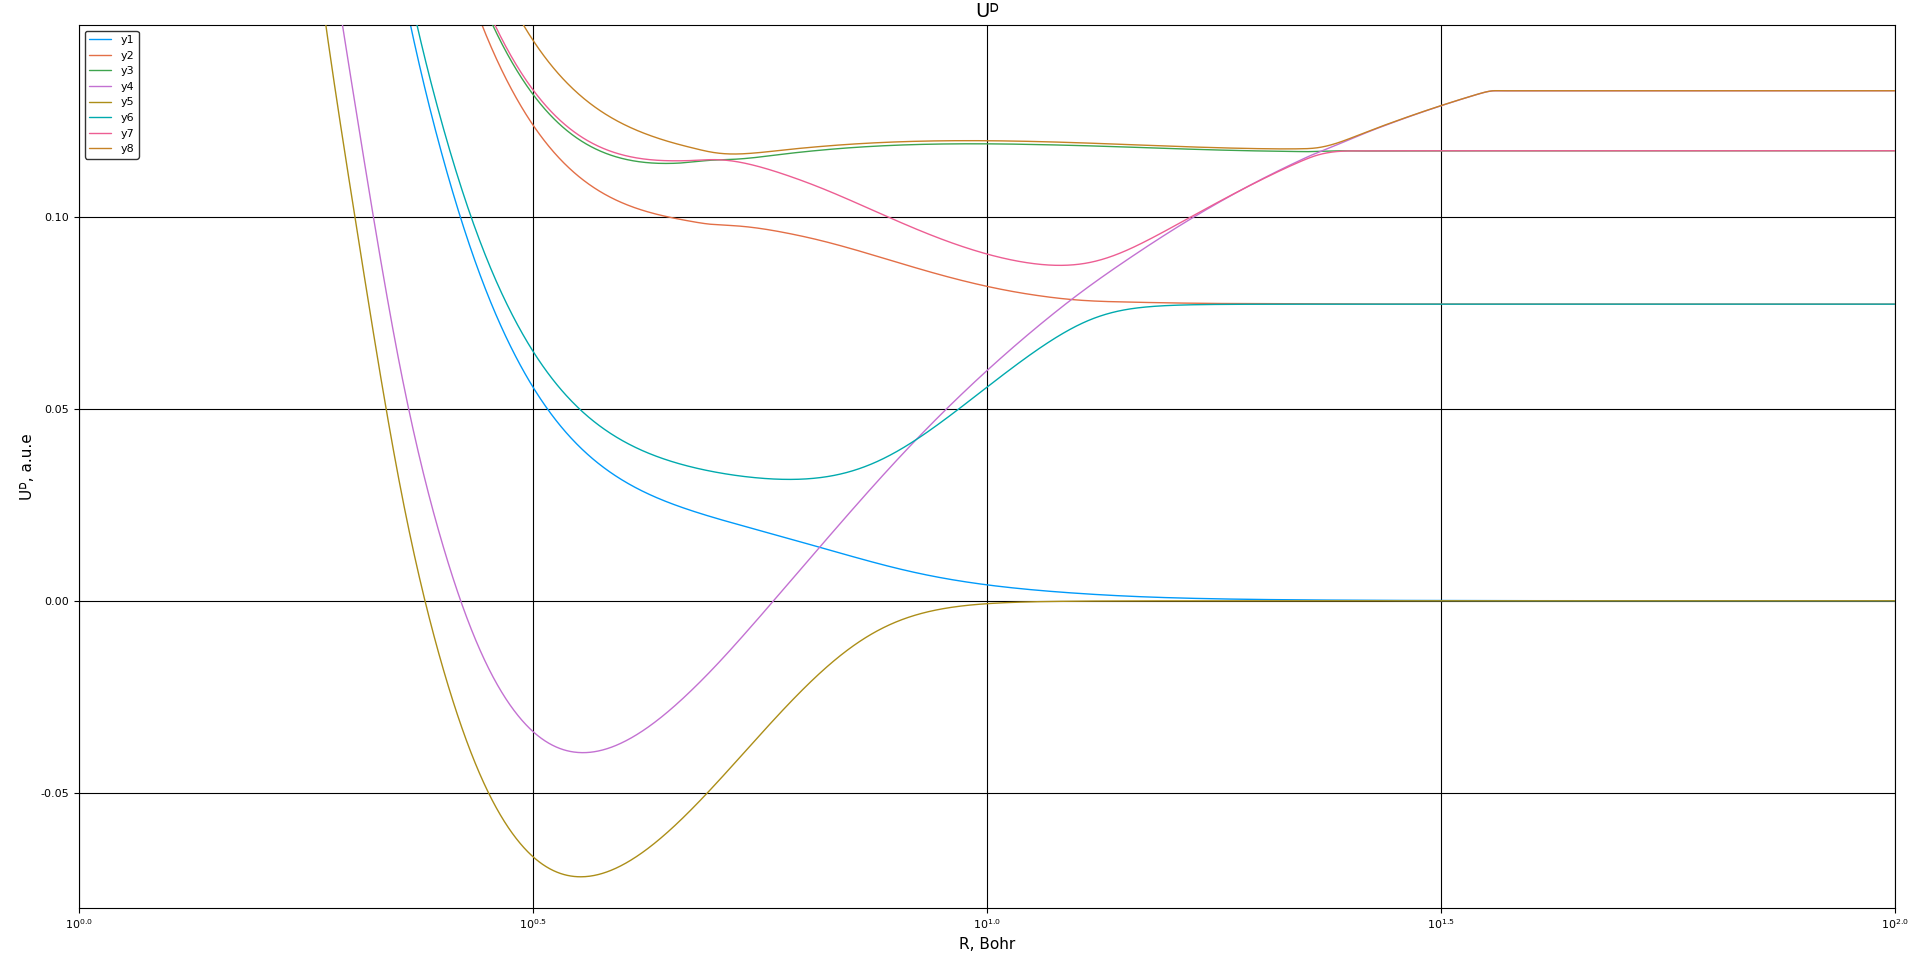
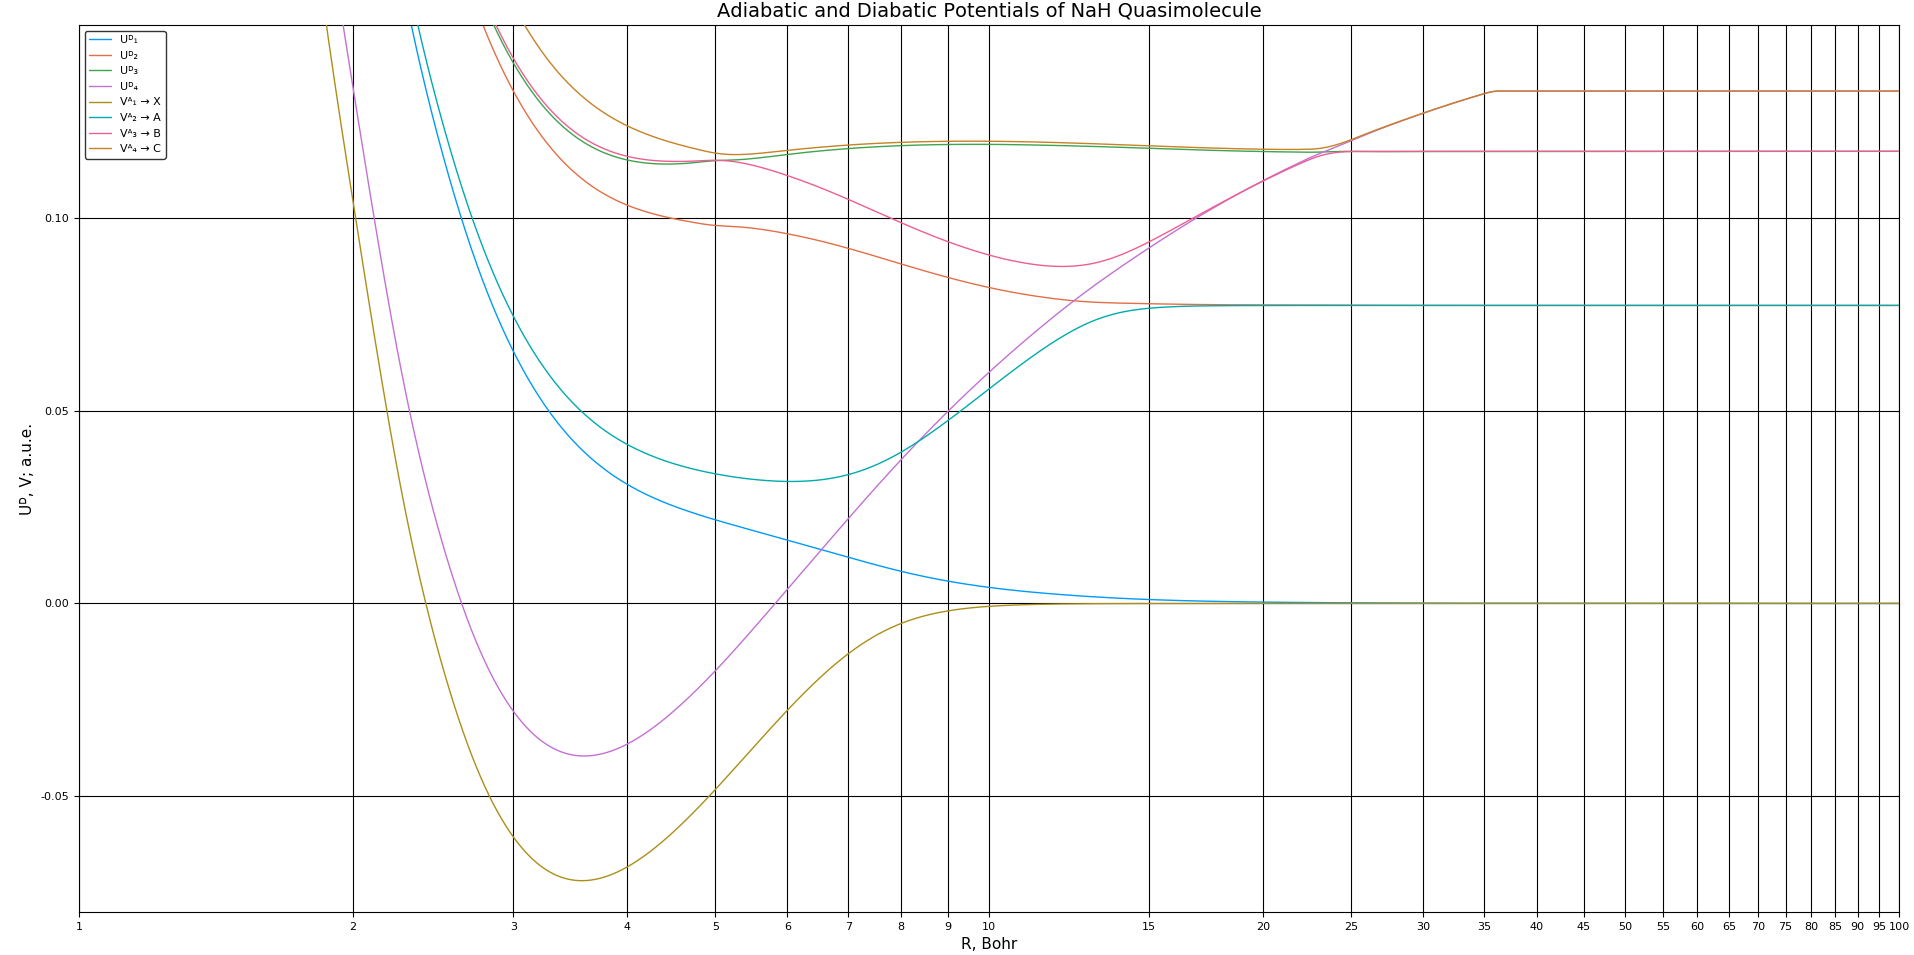
Non-adiabatic couplings diabatization
- ⟨|∂/∂R|⟩ diabatization;
- README update
- Figures update

diff --git a/README.md b/README.md
@@ -2,29 +2,85 @@
 
 ```Julia
 using Diabatizem
-config = loadConfiguration("configuration.json");
-data = buildData(config.input_data.hamiltonian_adiabatic, config.input_data.coupling_∂_∂R_adiabatic, config.settings.interpolation);
-areas = detectSinglePeakAreas(data.∂_∂R, config.settings.nonadiabatic_areas, 40.0);
-lz = detectLandauZenerAreas(data.Hₐ, areas, config.settings.nonadiabatic_areas, 40.0);
-lzz = fitSinglePeakCouplings(lz);
-pwf = deriveLandauZenerFunctions(lzz);
+
+C = loadConfiguration("configuration.json")
+D = buildData(C.input_data.hamiltonian_adiabatic, C.input_data.coupling_∂_∂R_adiabatic, C.settings.interpolation)
+
+Hᴬ = D.Hₐ
+∂_∂Rᴬ = D.∂_∂R
+
+A = detectSinglePeakAreas(∂_∂Rᴬ, C.settings.nonadiabatic_areas, 40.0)
+Aˡᶻ = detectLandauZenerAreas(Hᴬ, A, C.settings.nonadiabatic_areas, 40.0)
+Aˡᶻᶠ = fitLandauZenerCouplings(Aˡᶻ)
+∂_∂Rᵐᵒᵈᵉˡ = deriveLandauZenerCouplingFunctions(Aˡᶻᶠ)
+
+(Rᵖᵒⁱⁿᵗˢ,
+  S, Sᵈᵃᵗᵃ) = transformationMatrix(Hᴬ, ∂_∂Rᴬ, ∂_∂Rᵐᵒᵈᵉˡ, C.settings.diabatization)
+(Rᵖᵒⁱⁿᵗˢ,
+  Hᴰ, ∂_∂Rᴰ) = diabatize(Hᴬ, ∂_∂Rᴬ, Rᵖᵒⁱⁿᵗˢ, S)
+Uᴰᵈᵃᵗᵃ = matl2matldiag(Hᴰ)
+∂_∂Rᴰᵈᵃᵗᵃ = matl2matlupperx(∂_∂Rᴰ)
 ```
 
 ## Landau-Zener Coupling Piecewise Function Calculation
 ```Julia
 using Plots
-pl = plot(title="Comparison of a More Accurate (Q. Chem.) NaH ⟨B|∂/∂R|C⟩ Coupling and Landau-Zener Model Curves", xscale = :identity, xlims=(0, 30), xticks=0:1:30, xlabel = "R, Bohr", ylabel = "⟨B|∂/∂R|C⟩, a.u.", size=(1440, 900));
-plot!(pl, X, pwf[3,4], label = "⟨B|∂/∂R|C⟩, Landau-Zener model");
-plot!(pl, X, data.∂_∂R[3,4], label = "⟨B|∂/∂R|C⟩, Quantum-chemical data")
+
+X = 0:0.01:100;
+
+pl = plot(title="Comparison of a More Accurate (Q. Chem.) NaH ⟨B|∂/∂R|C⟩ Coupling and Landau-Zener Model Curves",
+  xscale = :identity, xlims=(0, 30), xticks=0:2:30, xlabel = "R, Bohr",
+  ylabel = "⟨B|∂/∂R|C⟩, a.u.",
+  size=(1440, 900));
+plot!(pl, X, ∂_∂Rᵐᵒᵈᵉˡ[3,4], label = "⟨B|∂/∂R|C⟩, Landau-Zener model");
+plot!(pl, X, ∂_∂Rᴬ[3,4], label = "⟨B|∂/∂R|C⟩, Quantum-chemical data")
 ```
 
 * [A. K. Belyaev. Excitation cross sections and the Landau-Zener model. Herzen University Bulletin (Physical Sciences), vol. 6 (15), pp. 213-228 (2006) [in Russian].](http://cyberleninka.ru/article/n/sechenie-vozbuzhdeniya-i-model-landau-zinera)
 
 ![Comparison of a More Accurate (Q. Chem.) NaH ⟨B|∂/∂R|C⟩ Coupling and Landau-Zener Model Curves](doc/ddrBC_NaH_comparison.png?raw=true "Comparison of a More Accurate (Q. Chem.) NaH ⟨B|∂/∂R|C⟩ Coupling and Landau-Zener Model Curves")
 
-## First Test
+## Non-adiabatic Coupling Diabatization
+```Julia
+uusing Plots
+
+X = 0:0.01:100;
+
+pl = plot(title="Comparison of a \"Accurate\" (Q. Chem.) NaH ⟨B|∂/∂R|C⟩ Coupling Before and After Diabatization.",
+  xscale = :identity, xlims=(0, 30), xticks=0:2:30, xlabel = "R, Bohr",
+  ylabel = "⟨B|∂/∂R|C⟩, a.u.",
+  size=(1440, 900));
+plot!(pl, Rᵖᵒⁱⁿᵗˢ, ∂_∂Rᴰᵈᵃᵗᵃ[:, 6], label = "⟨B|∂/∂R|C⟩, diabatized");
+plot!(pl, X, ∂_∂Rᴬ[3, 4], label = "⟨B|∂/∂R|C⟩, adiabatic (Quantum-chemical data)")
+```
+![Comparison of an Accurate (Q. Chem.) NaH ⟨B|∂/∂R|C⟩ Coupling Before and After Diabatization](doc/ddrBC_NaH_diabatized.png?raw=true "Comparison of an Accurate (Q. Chem.) NaH ⟨B|∂/∂R|C⟩ Coupling Before and After Diabatization")
+
+## Potential Diabatization
+```Julia
+using Plots
+x_ticks=Vector{Int}(); append!(x_ticks, 1:9); append!(x_ticks, 10:5:100)
+x_tick_labels=(x_ticks, collect("$tick" for tick in x_ticks))
+pl = plot(title="Adiabatic and Diabatic Potentials of NaH Quasimolecule",
+  xscale = :log10,
+  xlims=(1, 100), xlabel = "R, Bohr", xticks=x_tick_labels,
+  ylims=(-0.08, 0.15), ylabel = "Uᴰ, V; a.u.e.",
+  size=(1440, 900));
+N = size(Uᴰᵈᵃᵗᵃ, 2)
+
+for i = 1:N
+  plot!(pl, Rᵖᵒⁱⁿᵗˢ, Uᴰᵈᵃᵗᵃ[:, i], label = "Uᴰ$(int2indexsub(i))");
+end
+
+X = 0:0.01:100;
+for i = 1:N
+  plot!(pl, X, Hᴬ[i, i], label = "Vᴬ$(int2indexsub(i)) → $(int2molstate(i))");
+end
+pl
+```
 ![](doc/Uᴰ_NaH_V1_V2_V3_V4_pure_Landau_Zener.png?raw=true)
+
+### Transformation Matrix
+![](doc/S_transformation_matrix_NaH.png?raw=true)
 
 ---
 [**Atomic Collision Theory Group** ◀ Department of Theoretical Physics and Astronomy of the Herzen State Pedagogical University of Russia, Departement of Optics of the Saint Petersburg State University](http://quasimol.herzen.spb.ru/who-we-are/research-staff)
-
